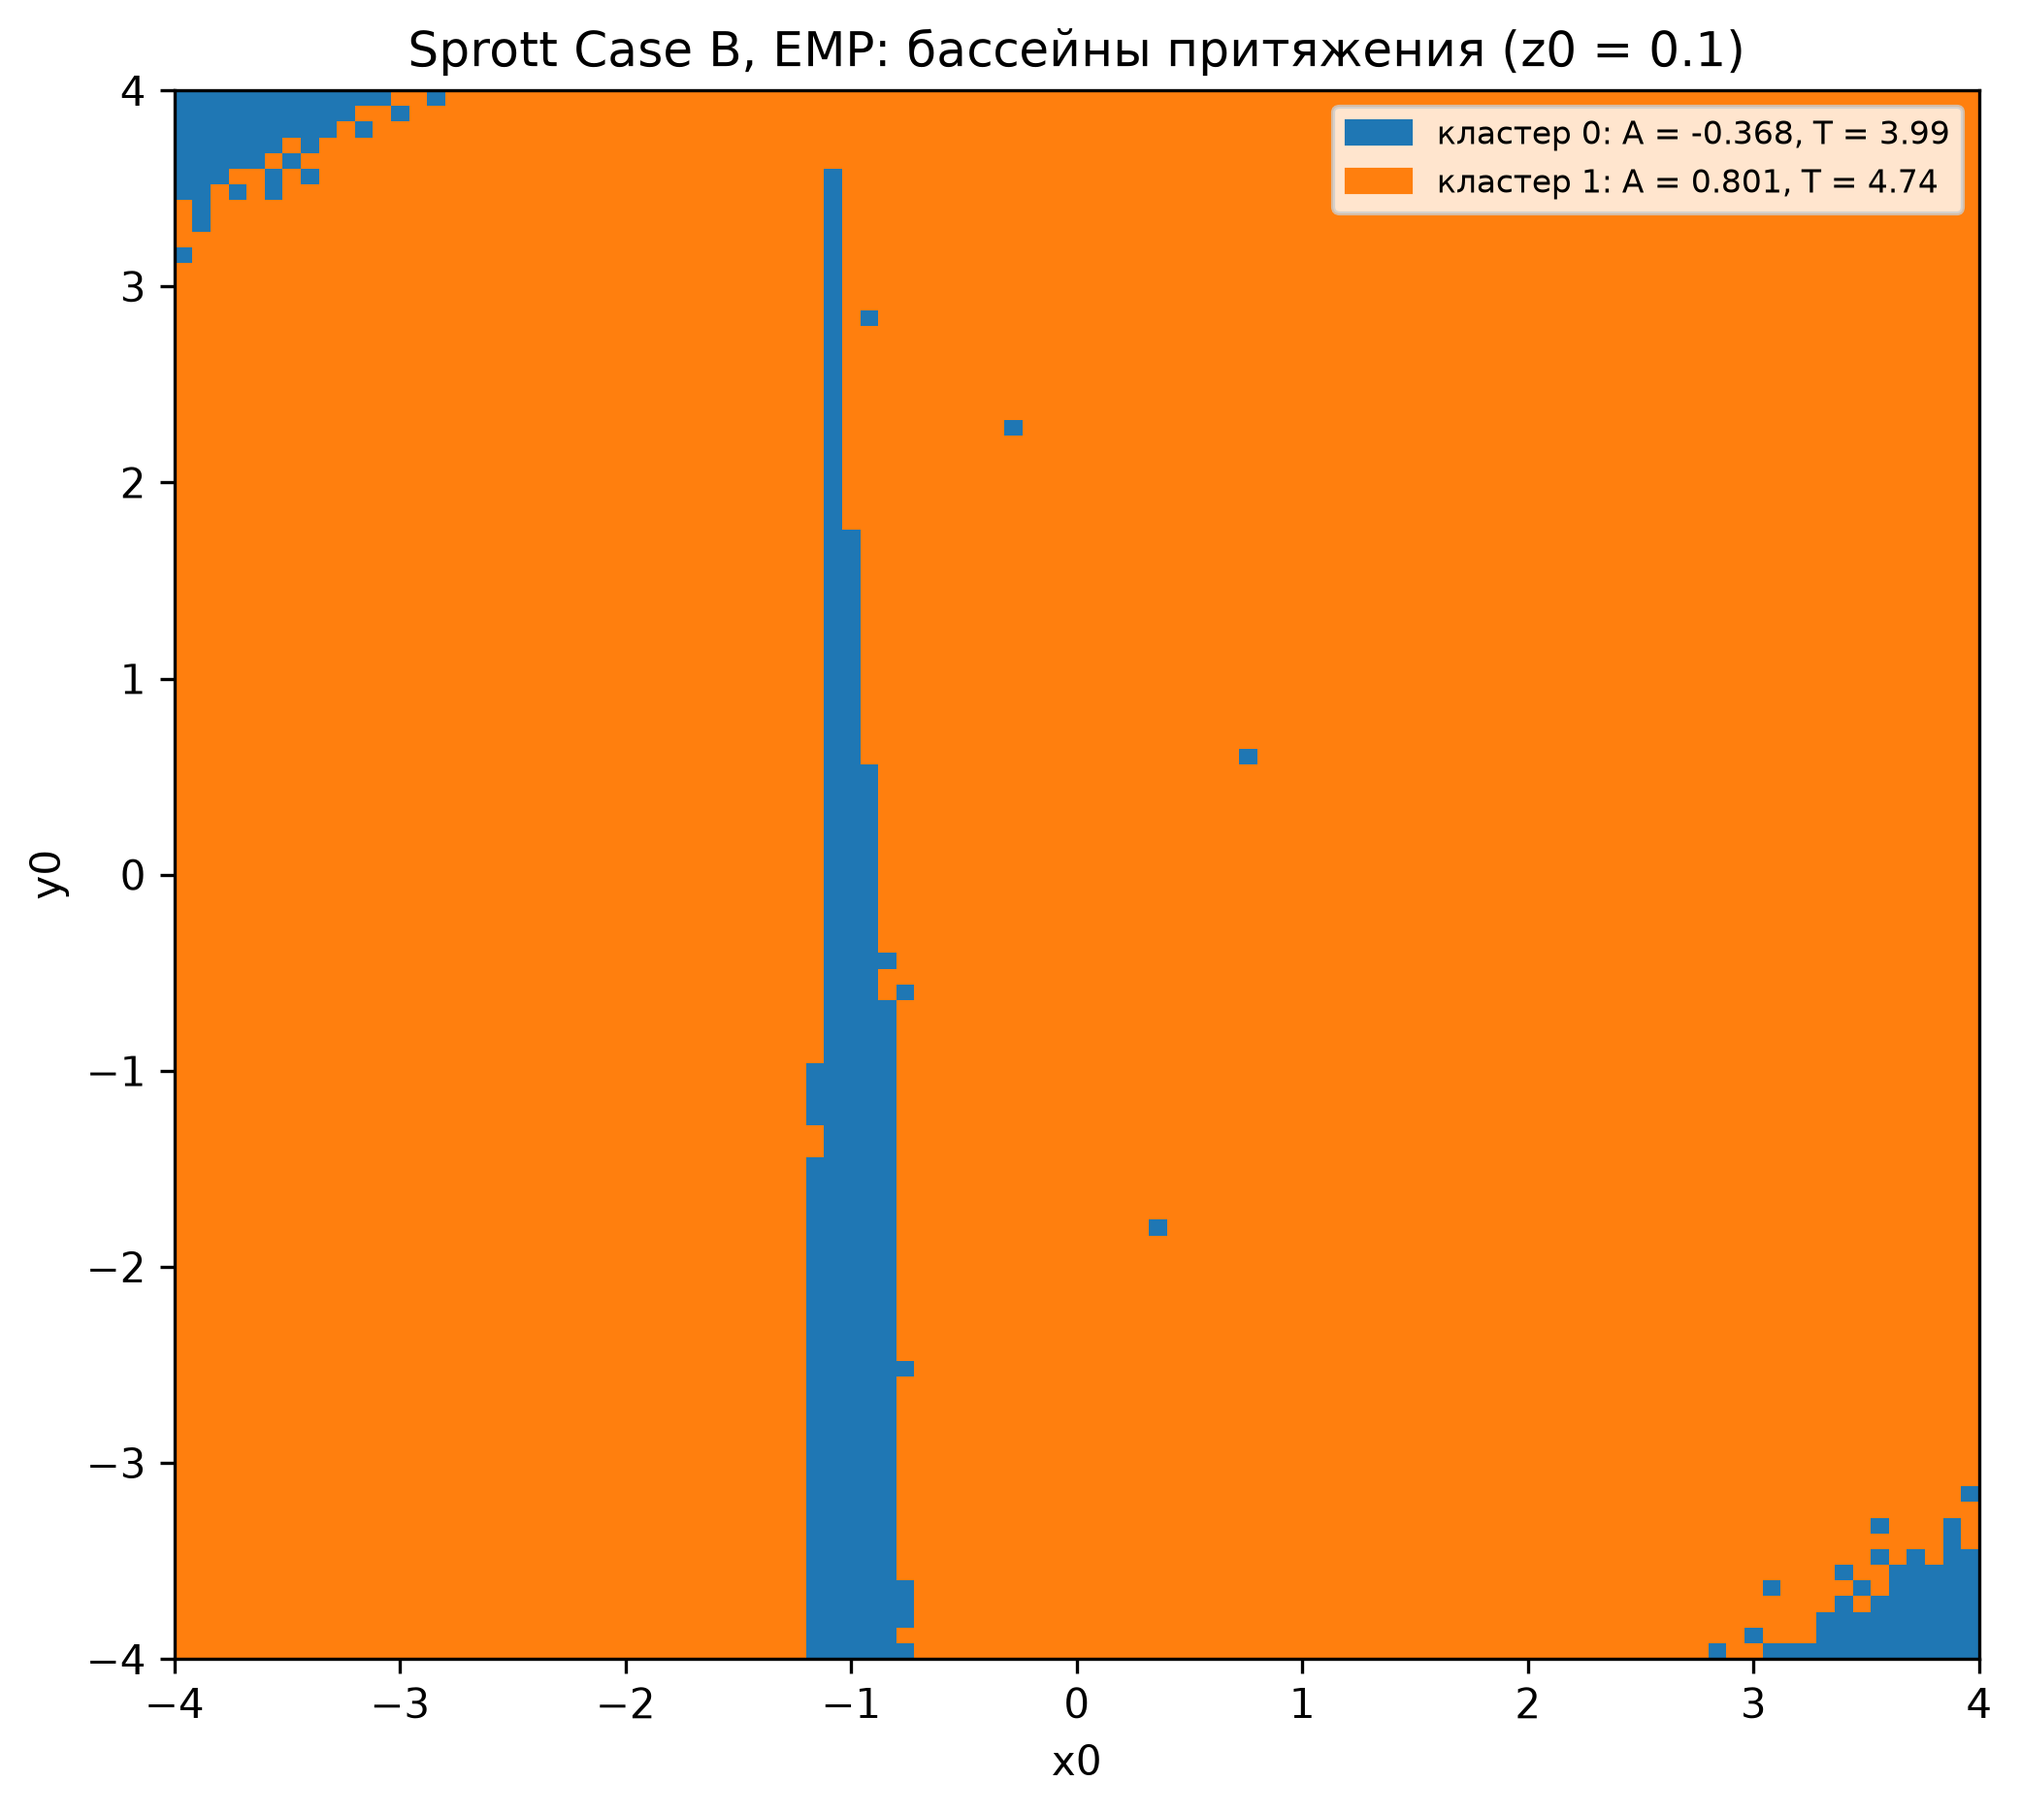
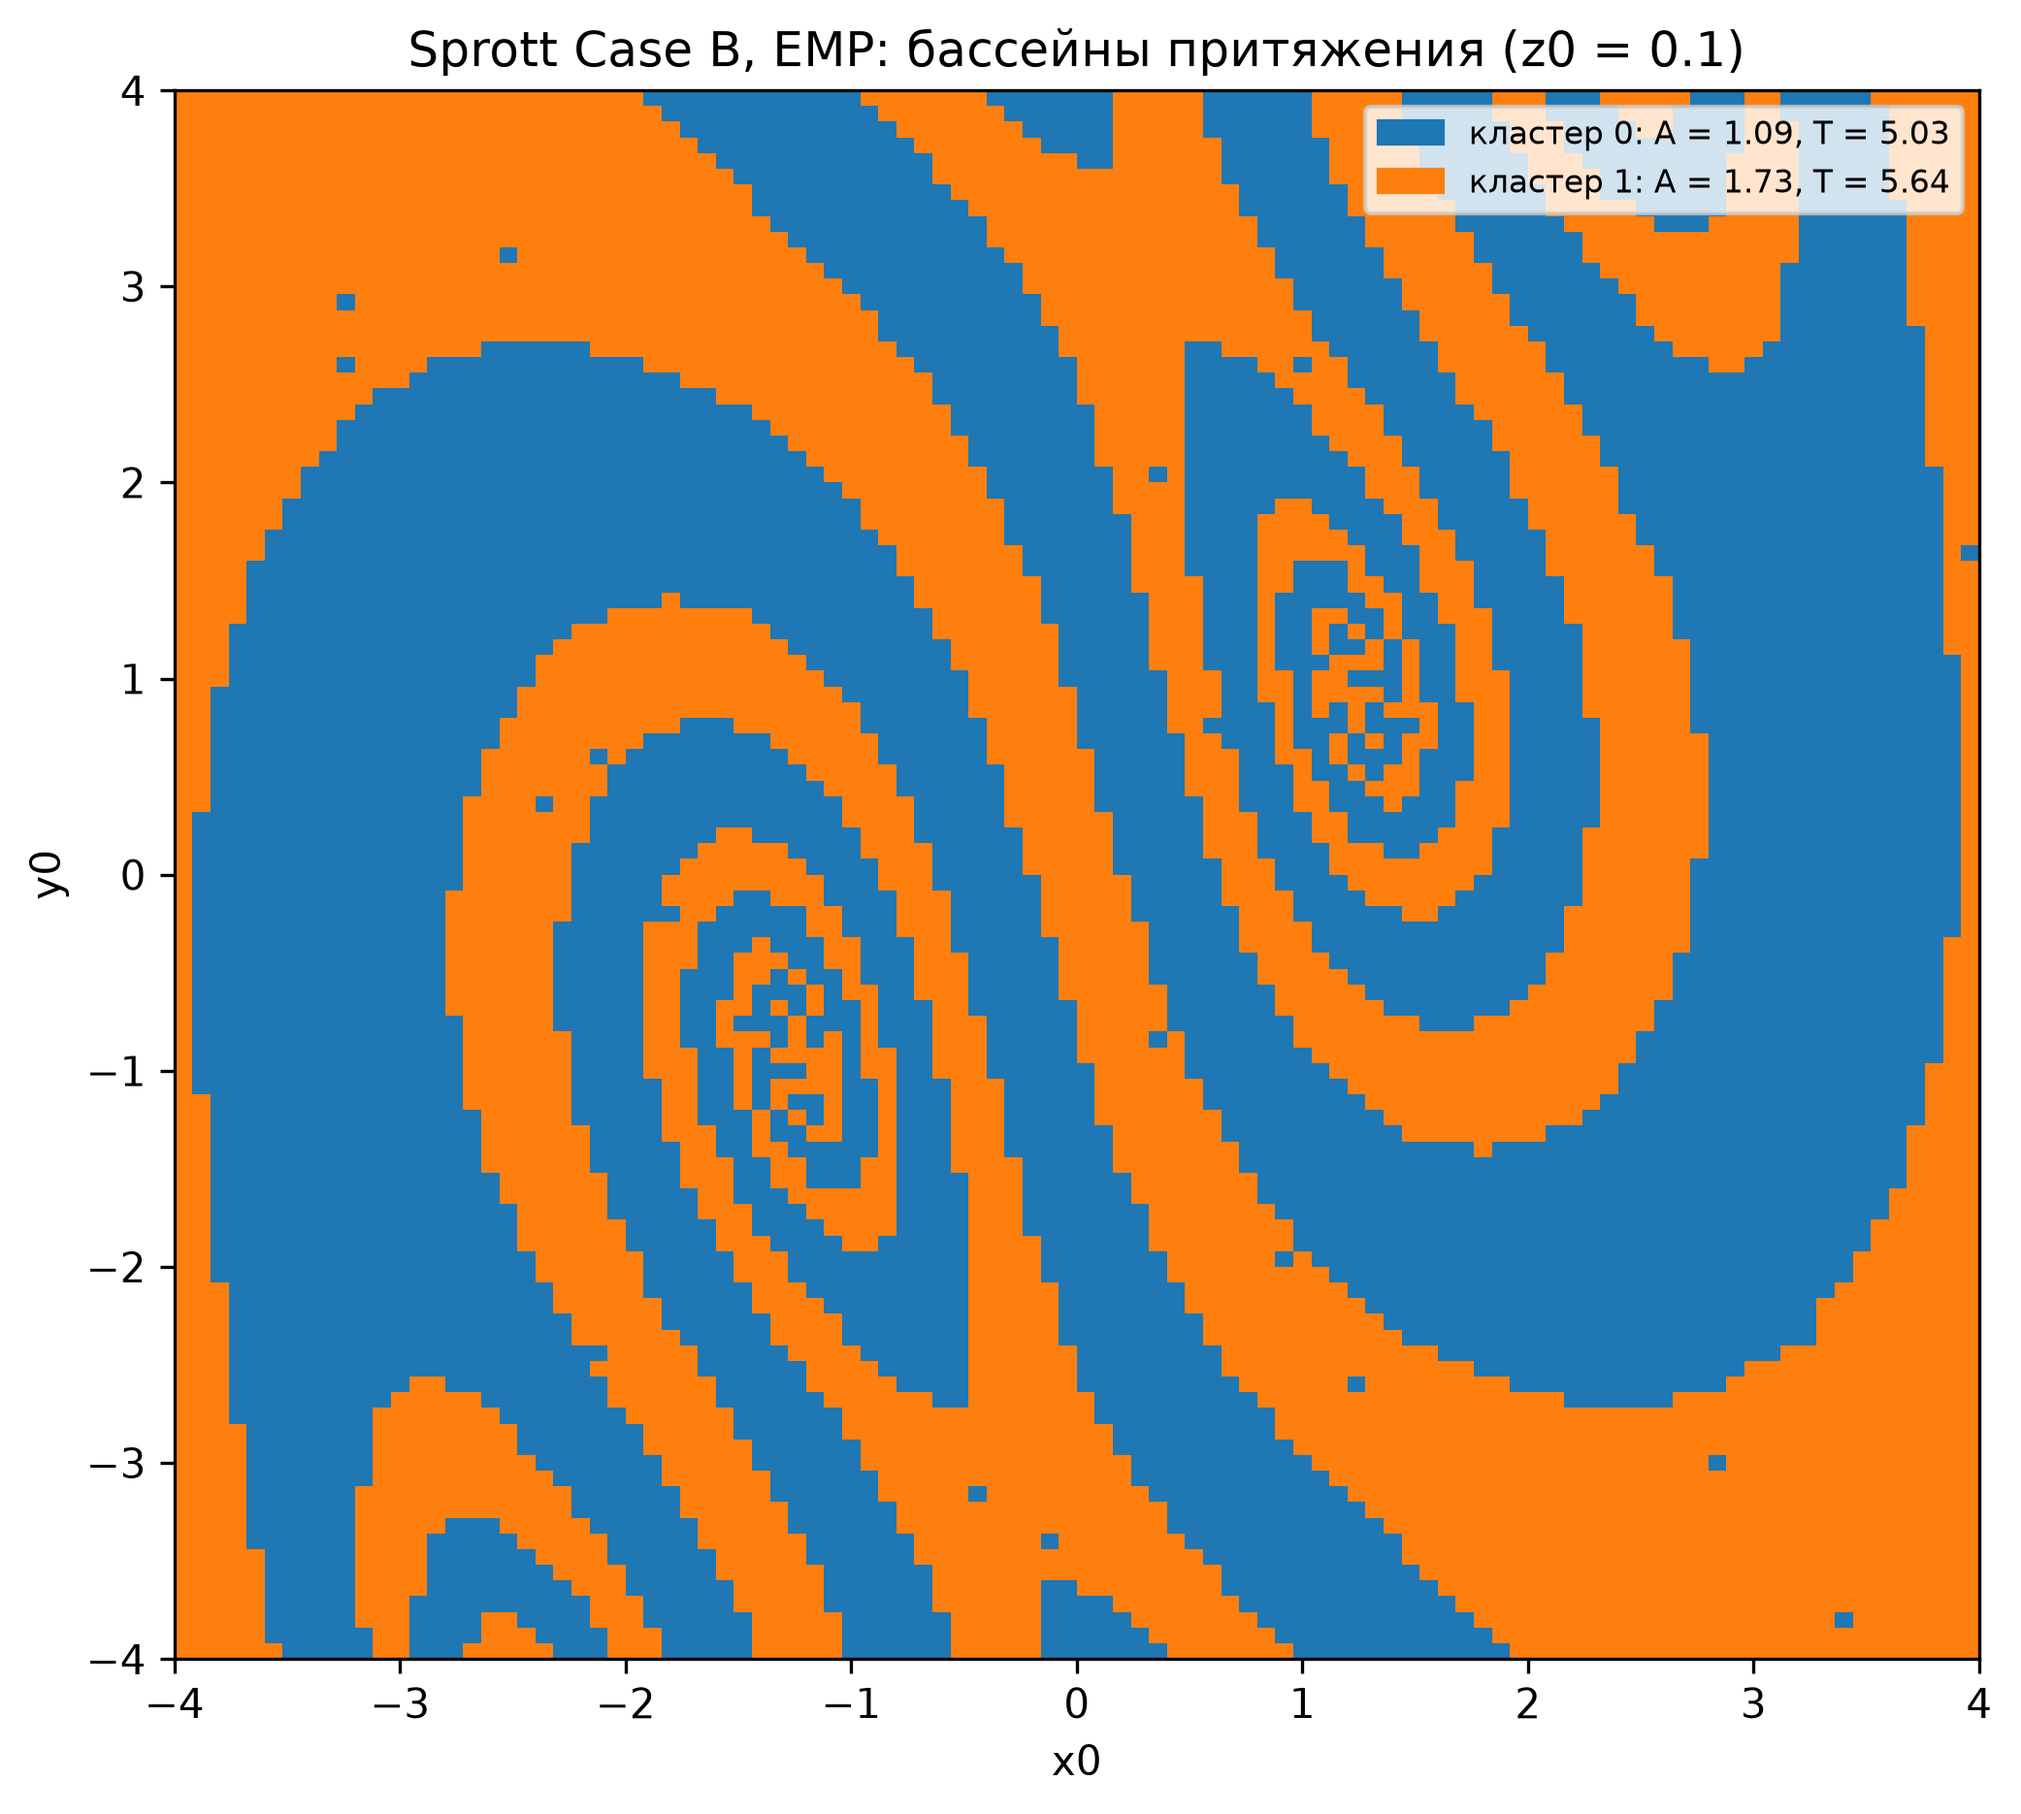
правочки

diff --git a/KD.py b/KD.py
@@ -5,6 +5,7 @@ NAME_ERROR = 'Ошибка KD'
 
 def kd(f, u0, t0, t1, h, a1, a2, a3, s=0.5):
 
+
     u0 = u0.copy()
 
     h1 = h * s
@@ -19,22 +20,14 @@ def kd(f, u0, t0, t1, h, a1, a2, a3, s=0.5):
     for i in range(n):
         x, y, z = u[i]
 
-        x_new = x + h1 * a1 * y * z
-        y_new = y + h1 * (x_new - a2 * y)
-        z_new = z + h1 * (a3 - x_new * y_new)
+        x_m = x + h1 * a1 * y * z
+        y_m = y + h1 * (x_m - a2 * y)
+        z_m = z + h1 * (a3 - x_m * y_m)
 
-        u_half = np.array([x_new, y_new, z_new])
-        u_new = u_half.copy()
+        z_new = z_m + h2 * (a3 - x_m * y_m)
+        y_new = (y_m + h2 * x_m) / (1 + a2 * h2)
+        x_new = x_m + h2 * a1 * y_new * z_new
 
-        for _ in range(4):
-            k2 = f(u_new, a1, a2, a3)
-            u_new = u_half + h2 * k2
-
-        # y_n1 = (y_new + h2) / (1 + h2 * x_new)
-        # x_n1 = x_new + h2 * (y_n1 * z_new)
-        # z_n1 = z_new + h2 * (1 - x_n1 * y_n1)
-        # u_new = np.array([x_n1, y_n1, z_n1])
-
-        u[i + 1] = u_new
+        u[i + 1] = np.array([x_new, y_new, z_new])
 
     return t, u

diff --git a/3.py b/3.py
@@ -34,7 +34,7 @@ def f(u, a1, a2, a3):
     return np.array([
         a1 * y * z,
         x - a2 * y,
-        a3 - x * x
+        a3 - x * y
     ])
 
 
@@ -124,7 +124,7 @@ if __name__ == "__main__":
     u_init = rng.uniform(IC_RANGE[0], IC_RANGE[1], size=(N_IC, 3))
 
     for key, S_vals in S_ranges:
-        print(f"VSKD, диапазон S: {key}...")
+        print(f"CD, диапазон S: {key}...")
         vol_kd = phase_volume_vs_S(
             kd_with_S, f, S_vals, u_init, h, ct,
             params[0], params[1], params[2]

diff --git a/2.py b/2.py
@@ -21,7 +21,7 @@ y_lims = {
     "Euler": None,
     "Euler-Cromer": None,
     "EMP": None,
-    "VSKD": None,
+    "CD": None,
 }
 AUTO_PERCENTILE = 95
 AUTO_MARGIN = 1.3
@@ -37,7 +37,7 @@ def f(u, a1, a2, a3):
     return np.array([
         a1 * y * z,
         x - a2 * y,
-        a3 - x * x
+        a3 - x * y
     ])
 
 
@@ -45,7 +45,7 @@ methods = [
     ("Euler", njit(euler)),
     ("Euler-Cromer", njit(euler_kromer)),
     ("EMP", njit(emp)),
-    ("VSKD", njit(kd)),
+    ("СD", njit(kd)),
 ]
 rk4_jit = njit(rk4)
 

diff --git a/5.py b/5.py
@@ -13,7 +13,7 @@ from KD import kd
 from RK4 import rk4
 
 
-params = (1.0, 1.0, 1.0)
+params = (1.0, 1.7, 1.0)
 
 z0 = 0.1
 X_RANGE = (-4.0, 4.0)
@@ -32,7 +32,7 @@ methods = [
     ("Euler", njit(euler)),
     ("Euler-Cromer", njit(euler_kromer)),
     ("EMP", njit(emp)),
-    ("VSKD", njit(kd)),
+    ("СD", njit(kd)),
     ("RK4", njit(rk4)),
 ]
 
@@ -44,7 +44,7 @@ def f(u, a1, a2, a3):
     return np.array([
         a1 * y * z,
         x - a2 * y,
-        a3 - x * x
+        a3 - x * y
     ])
 
 

diff --git a/4.py b/4.py
@@ -35,7 +35,7 @@ def f(u, a1, a2, a3):
     return np.array([
         a1 * y * z,
         x - a2 * y,
-        a3 - x * x
+        a3 - x * y
     ])
 
 
@@ -43,7 +43,7 @@ methods = [
     ("Euler", njit(euler)),
     ("Euler-Cromer", njit(euler_kromer)),
     ("EMP", njit(emp)),
-    ("VSKD", njit(kd)),
+    ("CD", njit(kd)),
     ("RK4", njit(rk4)),
 ]
 

diff --git a/1.py b/1.py
@@ -38,14 +38,14 @@ def f(u, a1, a2, a3):
     return np.array([
         a1 * y * z,
         x - a2 * y,
-        a3 - x * x
+        a3 - x * y
     ])
 
 methods = [
     ("Euler", njit(euler)),
     ("Euler-Cromer", njit(euler_kromer)),
     ("EMP", njit(emp)),
-    ("VSKD", njit(kd)),
+    ("CD", njit(kd)),
 ]
 rk4_jit = njit(rk4)
 
